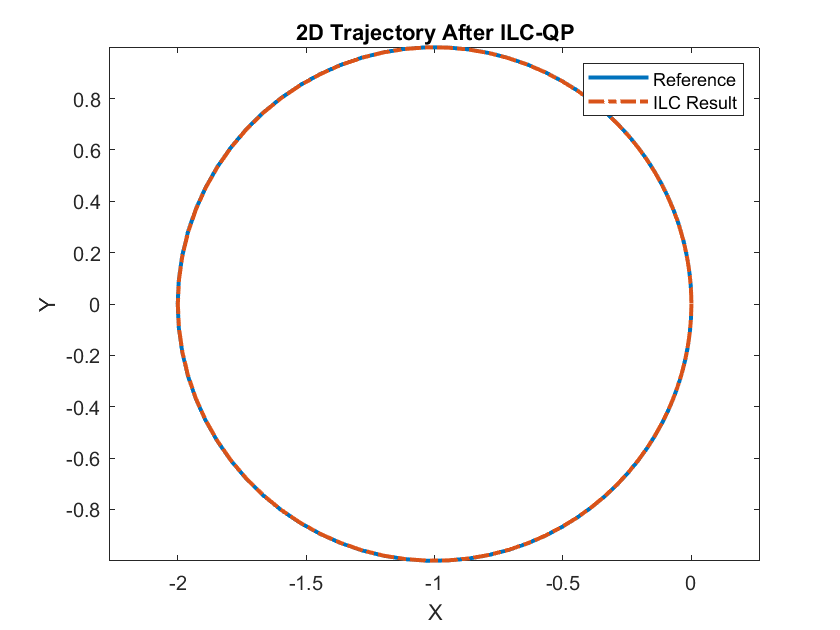
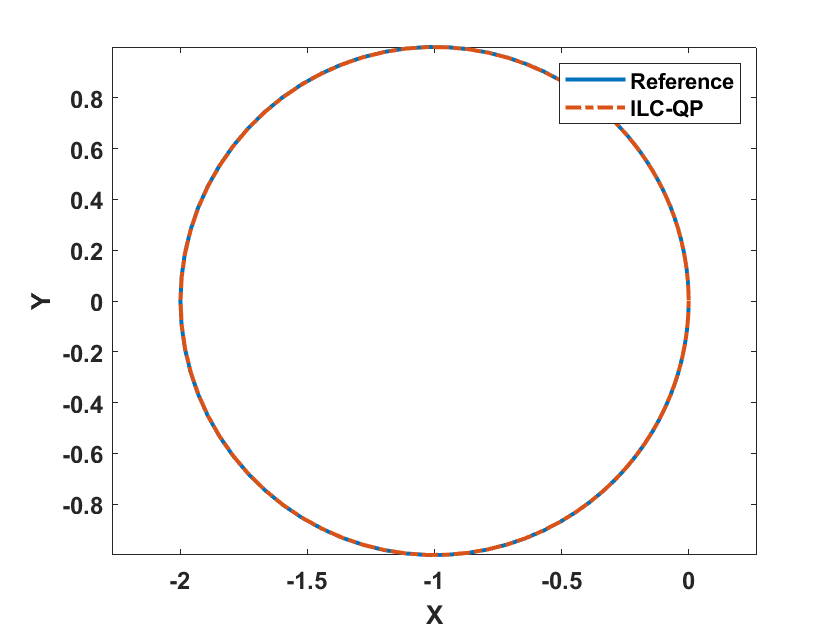
update figs

diff --git a/controller_ilc_qp.m b/controller_ilc_qp.m
@@ -32,20 +32,20 @@ position = G_actual*U + d_actual;
 subplot(2,1,1)
 plot(time, x_ref, '-', 'LineWidth',2); hold on;
 plot(time, position(index_x), '--', 'LineWidth',2)
-xlabel('Time'); ylabel('Position X');legend('x\_ref', 'x\_sim')
-title('Trajectory X Before ILC')
+xlabel('Time'); ylabel('Position X');legend('x\_ref', 'x\_dc')
+set(gca,"fontsize", 12, 'FontWeight', 'bold')
 subplot(2,1,2)
 plot(time, y_ref, '-', 'LineWidth',2); hold on;
 plot(time, position(index_y), '--', 'LineWidth',2)
-xlabel('Time'); ylabel('Position Y');legend('y\_ref', 'y\_sim')
-title('Trajectory Y Before ILC')
+xlabel('Time'); ylabel('Position Y');legend('y\_ref', 'y\_dc')
+set(gca,"fontsize", 12, 'FontWeight', 'bold')
 figure
 plot(Traj_ref(index_x), Traj_ref(index_y), '-', 'LineWidth',2); hold on
 plot(position(index_x), position(index_y), '-.', 'LineWidth',2)
-xlabel('X'); ylabel('Y');legend('reference', 'simulation'); axis equal
-title('2D Trajectory Before ILC')
+xlabel('X'); ylabel('Y');legend('Reference', 'Direct Collocation'); axis equal
+set(gca,"fontsize", 12, 'FontWeight', 'bold')
 %% ILC Loop
-num_iterations = 5; 
+num_iterations = 0; 
 e_norm = [];
 
 % Initialize matrices for QP
@@ -68,6 +68,7 @@ while tracking_error > 0.01
     delta_u = x;
     % Update control input for next iteration
     U = U+delta_u;
+    num_iterations = num_iterations + 1;
 end
 fprintf('number of iterations to converge: %d\n', num_iterations)
 %% Plot the results
@@ -75,20 +76,20 @@ figure % Plot 1d trajectory vs time
 subplot(2,1,1)
 plot(time, x_ref, '-', 'LineWidth',2); hold on;
 plot(time, position(index_x), '--', 'LineWidth',2)
-legend('x\_ref', 'x\_sim')
-title('Trajectory X After ILC-QP')
+legend('x\_ref', 'x\_ilc-qp')
+set(gca,"fontsize", 12, 'FontWeight', 'bold')
 subplot(2,1,2)
 plot(time, y_ref, '-', 'LineWidth',2); hold on;
 plot(time, position(index_y), '--', 'LineWidth',2)
-legend('y\_ref', 'y\_sim')
-title('Trajectory Y After ILC-QP')
+legend('y\_ref', 'y\_ilc-qp')
+set(gca,"fontsize", 12, 'FontWeight', 'bold')
 figure % Plot 2d trajectory
 plot(x_ref, y_ref, '-', 'LineWidth',2); hold on
 plot(position(index_x), position(index_y), '-.', 'LineWidth',2)
-legend('Reference', 'ILC Result')
+legend('Reference', 'ILC-QP')
 xlabel('X'); ylabel('Y'); axis equal
-title('2D Trajectory After ILC-QP')
+set(gca,"fontsize", 12, 'FontWeight', 'bold')
 figure % Plot error vs iteration
 plot(1:num_iterations, e_norm, '-x','LineWidth',2)
-xlabel('Iteration'); ylabel('Error')
-title('Tracking Error vs Iteration ILC-QP')
+xlabel('Iteration'); ylabel('Error\_ILC-QP')
+set(gca,"fontsize", 12, 'FontWeight', 'bold')

diff --git a/controller_ilc_mf.m b/controller_ilc_mf.m
@@ -32,18 +32,18 @@ position = G_actual*U + d_actual;
 subplot(2,1,1)
 plot(time, x_ref, '-', 'LineWidth',2); hold on;
 plot(time, position(index_x), '--', 'LineWidth',2)
-xlabel('Time'); ylabel('Position X');legend('x\_ref', 'x\_sim')
-title('Trajectory X Before ILC')
+xlabel('Time'); ylabel('Position X');legend('x\_ref', 'x\_dc')
+set(gca,"fontsize", 12, 'FontWeight', 'bold')
 subplot(2,1,2)
 plot(time, y_ref, '-', 'LineWidth',2); hold on;
 plot(time, position(index_y), '--', 'LineWidth',2)
-xlabel('Time'); ylabel('Position Y');legend('y\_ref', 'y\_sim')
-title('Trajectory Y Before ILC')
+xlabel('Time'); ylabel('Position Y');legend('y\_ref', 'y\_dc')
+set(gca,"fontsize", 12, 'FontWeight', 'bold')
 figure
 plot(Traj_ref(index_x), Traj_ref(index_y), '-', 'LineWidth',2); hold on
 plot(position(index_x), position(index_y), '-.', 'LineWidth',2)
-xlabel('X'); ylabel('Y');legend('reference', 'simulation'); axis equal
-title('2D Trajectory Before ILC')
+xlabel('X'); ylabel('Y');legend('Reference', 'Direct Collocation'); axis equal
+set(gca,"fontsize", 12, 'FontWeight', 'bold')
 %% ILC Loop
 num_iterations = 200; 
 alpha = 1; % initialize step size
@@ -87,23 +87,23 @@ figure % Plot 1d trajectory vs time
 subplot(2,1,1)
 plot(time, x_ref, '-', 'LineWidth',2); hold on;
 plot(time, position(index_x), '--', 'LineWidth',2)
-legend('x\_ref', 'x\_sim')
-title('Trajectory X After ILC-MF')
+legend('x\_ref', 'x\_ilc-mf')
+set(gca,"fontsize", 12, 'FontWeight', 'bold')
 subplot(2,1,2)
 plot(time, y_ref, '-', 'LineWidth',2); hold on;
 plot(time, position(index_y), '--', 'LineWidth',2)
-legend('y\_ref', 'y\_sim')
-title('Trajectory Y After ILC-MF')
+legend('y\_ref', 'y\_ilc-mf')
+set(gca,"fontsize", 12, 'FontWeight', 'bold')
 figure % Plot 2d trajectory
 plot(x_ref, y_ref, '-', 'LineWidth',2); hold on
 plot(position(index_x), position(index_y), '-.', 'LineWidth',2)
-legend('Reference', 'ILC Result')
+legend('Reference', 'ILC-MF')
 xlabel('X'); ylabel('Y'); axis equal
-title('2D Trajectory After ILC-MF')
+set(gca,"fontsize", 12, 'FontWeight', 'bold')
 figure % Plot error vs iteration
 plot(1:num_iterations, e_norm, '-x','LineWidth',2)
-xlabel('Iteration'); ylabel('Error')
-title('Tracking Error vs Iteration ILC-MF')
+xlabel('Iteration'); ylabel('Error\_ILC-MF')
+set(gca,"fontsize", 12, 'FontWeight', 'bold')
 %%%%%%%%%%%%% Function definition %%%%%%%%%%%%%%%%%
 function trajectory = actual_dynamics(U, G_actual, d_actual)
     trajectory = G_actual * U + d_actual;

diff --git a/controller_ilc_lqr.m b/controller_ilc_lqr.m
@@ -32,18 +32,18 @@ position = G_actual*U + d_actual;
 subplot(2,1,1)
 plot(time, x_ref, '-', 'LineWidth',2); hold on;
 plot(time, position(index_x), '--', 'LineWidth',2)
-xlabel('Time'); ylabel('Position X');legend('x\_ref', 'x\_sim')
-title('Trajectory X Before ILC')
+xlabel('Time'); ylabel('Position X');legend('x\_ref', 'x\_dc')
+set(gca,"fontsize", 12, 'FontWeight', 'bold')
 subplot(2,1,2)
 plot(time, y_ref, '-', 'LineWidth',2); hold on;
 plot(time, position(index_y), '--', 'LineWidth',2)
-xlabel('Time'); ylabel('Position Y');legend('y\_ref', 'y\_sim')
-title('Trajectory Y Before ILC')
+xlabel('Time'); ylabel('Position Y');legend('y\_ref', 'y\_dc')
+set(gca,"fontsize", 12, 'FontWeight', 'bold')
 figure
 plot(Traj_ref(index_x), Traj_ref(index_y), '-', 'LineWidth',2); hold on
 plot(position(index_x), position(index_y), '-.', 'LineWidth',2)
-xlabel('X'); ylabel('Y');legend('reference', 'simulation'); axis equal
-title('2D Trajectory Before ILC')
+xlabel('X'); ylabel('Y');legend('Reference', 'Direct Collocation'); axis equal
+set(gca,"fontsize", 12, 'FontWeight', 'bold')
 %% ILC Loop
 num_iterations = 0; 
 e_norm = [];
@@ -76,20 +76,20 @@ figure % Plot 1d trajectory vs time
 subplot(2,1,1)
 plot(time, x_ref, '-', 'LineWidth',2); hold on;
 plot(time, position(index_x), '--', 'LineWidth',2)
-legend('x\_ref', 'x\_sim')
-title('Trajectory X After ILC-LQR')
+legend('x\_ref', 'x\_ilc-lqr')
+set(gca,"fontsize", 12, 'FontWeight', 'bold')
 subplot(2,1,2)
 plot(time, y_ref, '-', 'LineWidth',2); hold on;
 plot(time, position(index_y), '--', 'LineWidth',2)
-legend('y\_ref', 'y\_sim')
-title('Trajectory Y After ILC-LQR')
+legend('y\_ref', 'y\_ilc-lqr')
+set(gca,"fontsize", 12, 'FontWeight', 'bold')
 figure % Plot 2d trajectory
 plot(x_ref, y_ref, '-', 'LineWidth',2); hold on
 plot(position(index_x), position(index_y), '-.', 'LineWidth',2)
-legend('Reference', 'ILC Result')
+legend('Reference', 'ILC-LQR')
 xlabel('X'); ylabel('Y'); axis equal
-title('2D Trajectory After ILC-LQR')
+set(gca,"fontsize", 12, 'FontWeight', 'bold')
 figure % Plot error vs iteration
 plot(1:num_iterations, e_norm, '-x','LineWidth',2)
-xlabel('Iteration'); ylabel('Error')
-title('Tracking Error vs Iteration ILC-LQR')
+xlabel('Iteration'); ylabel('Error\_ILC-LQR')
+set(gca,"fontsize", 12, 'FontWeight', 'bold')

diff --git a/controller_mpc.m b/controller_mpc.m
@@ -91,20 +91,20 @@ subplot(2,1,1)
 plot(time, x_ref, '-', 'LineWidth', 2); hold on
 plot(time,pos_x_actual, '-.', 'LineWidth', 2);
 xlabel('Time'); ylabel('Position X');legend("Reference", "MPC Result")
-title('Trajectory X for Actual Model')
+set(gca,"fontsize", 12, 'FontWeight', 'bold')
 
 subplot(2,1,2)
 plot(time, y_ref, '-', 'LineWidth', 2); hold on
 plot(time,pos_y_actual, '-.', 'LineWidth', 2)
 xlabel('Time'); ylabel('Position Y');legend("Reference", "MPC Result")
-title('Trajectory Y for Actual Model')
+set(gca,"fontsize", 12, 'FontWeight', 'bold')
 
 figure
 plot(x_ref, y_ref, 'LineWidth', 2); hold on
 plot(pos_x_actual,pos_y_actual, 'LineWidth', 2)
 xlabel('X'); ylabel('Y');legend("Reference", "MPC Result")
 axis equal
-title('MPC Tracking Result')
+set(gca,"fontsize", 12, 'FontWeight', 'bold')
 % Calculate the tracking error of MPC 
 traj_actual = [pos_x_actual; pos_y_actual];
 traj_ref = [x_ref; y_ref];
